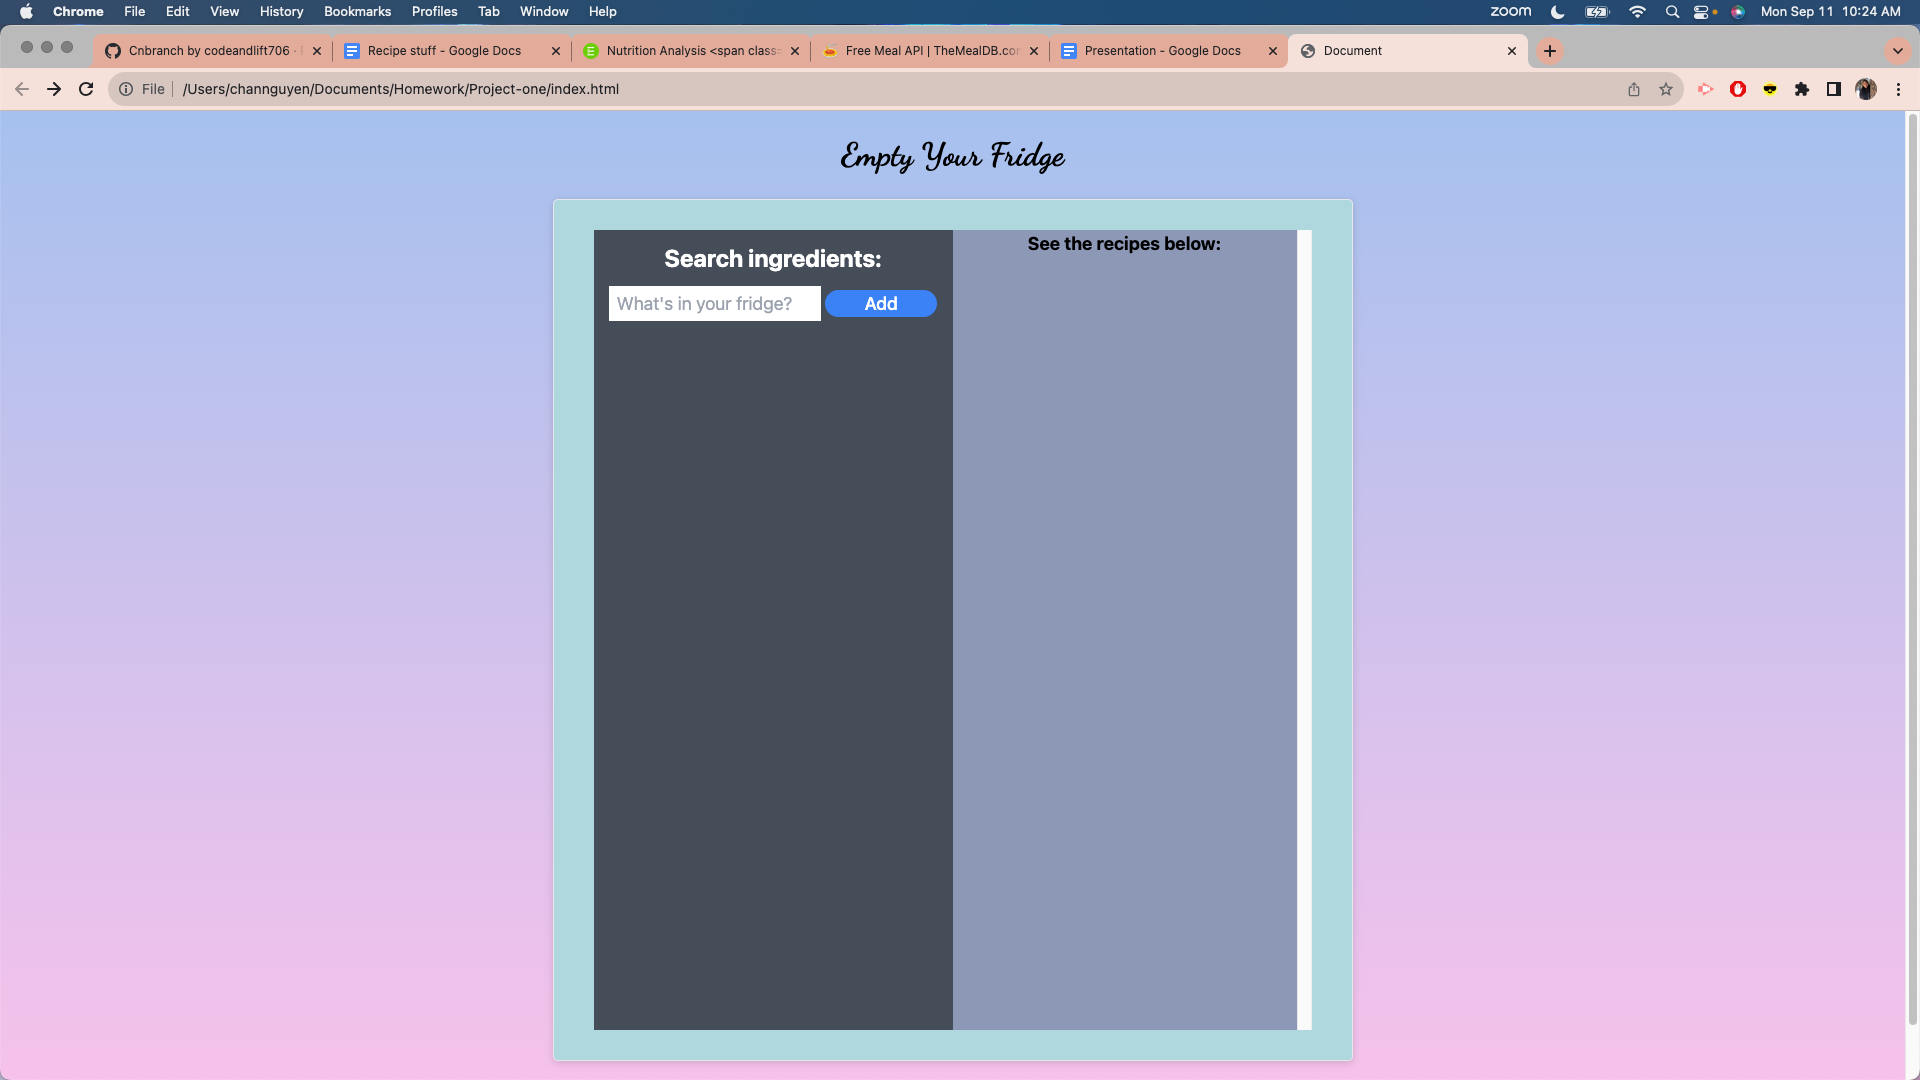
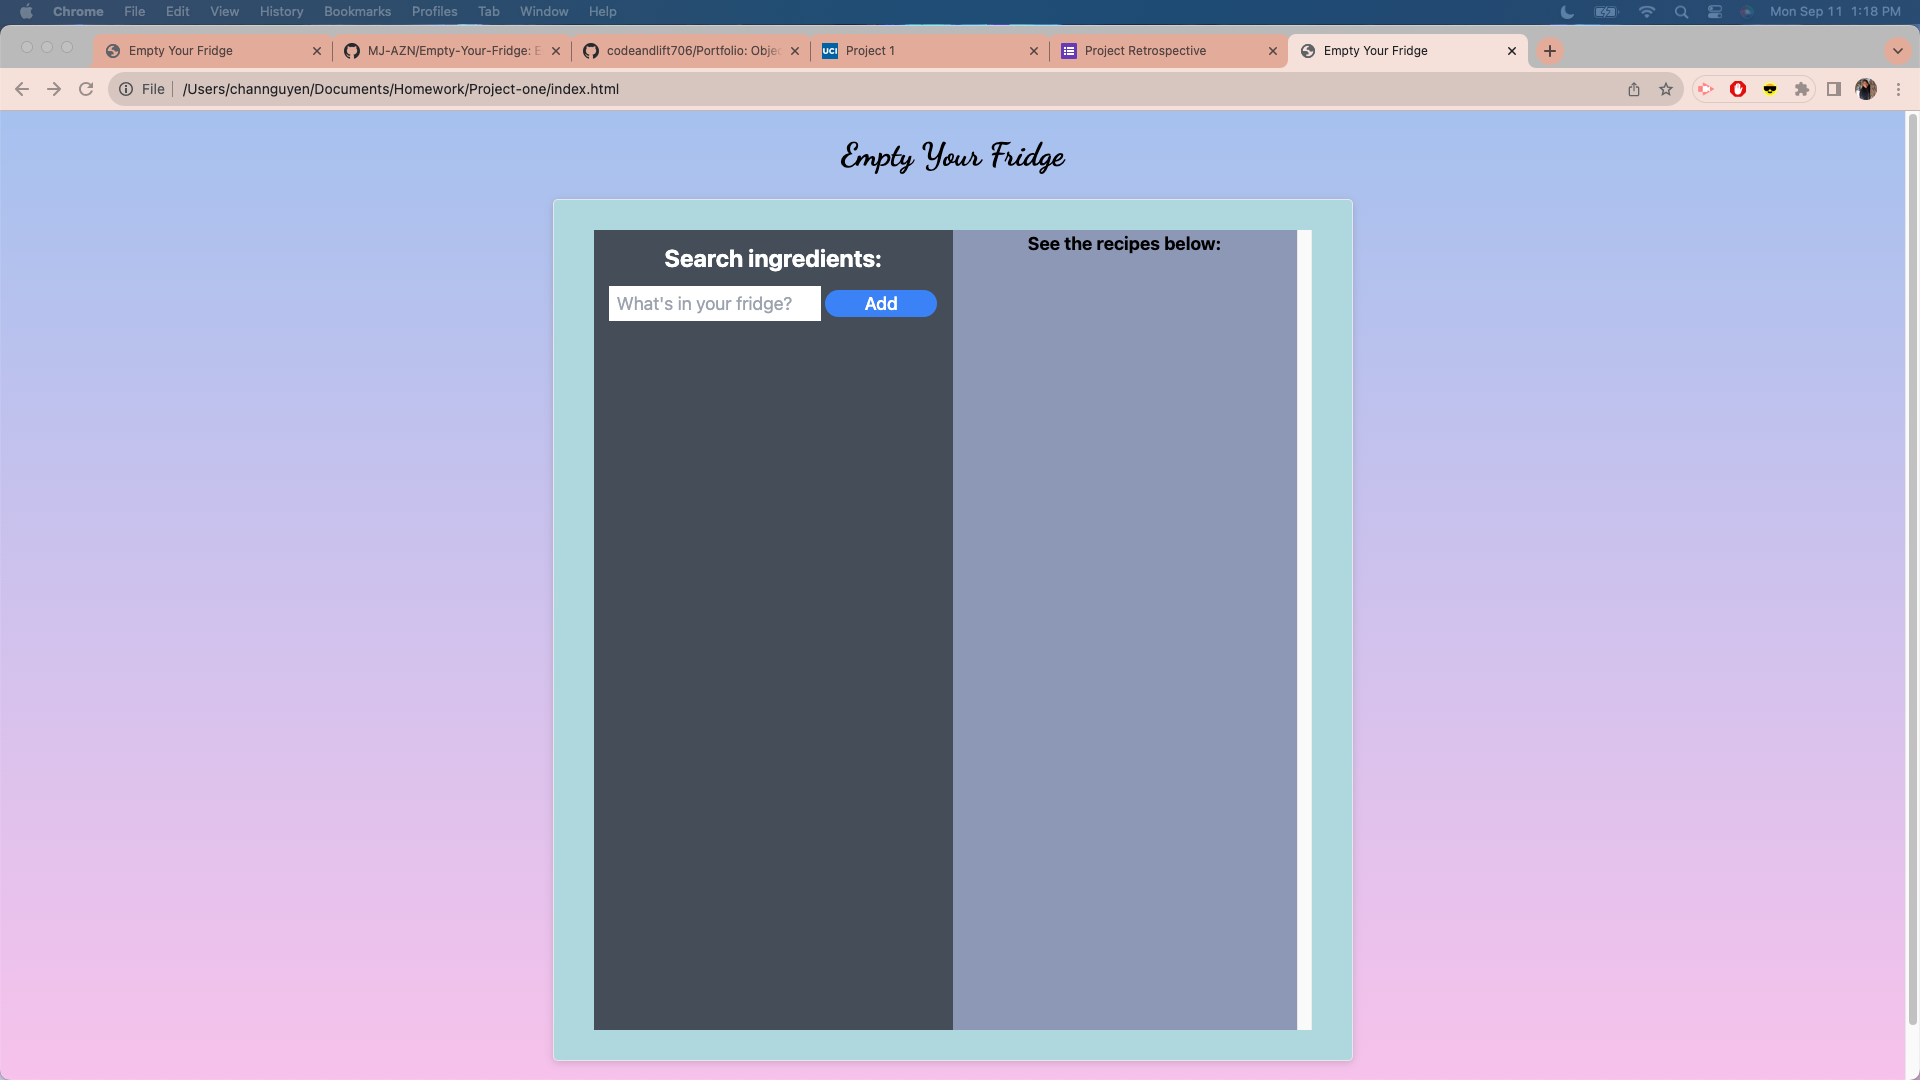
updated README and screenshot with new title

diff --git a/README.md b/README.md
@@ -3,7 +3,7 @@
 Empty Your Fridge was written by MJ, Chan Nguyen, Brian Lee, and Kyle Oros. It utilizes the MealDB API in regards to the recipes and their respective profiles, and the Edamam Nutritional Data API to calculate the nutritional data on the ingredients found in MealDB.  
 
 ## DESCRIPTION
-Empty Your Fridge is a web application that prompts the user to enter ingredients the wish to utilize in a recipe. Upon receiving the user's inputs, EYF will cross-compare their ingredient entries to a database, and return recipes to the user that match their parameters. Upon clicking any of these recipes, the user will be taken to a separate page containing the cooking instructions and nutritional data on the ingredients used. The deployed application can be found here: https://MJ-AZN.github.io/Project-one/. The GitHub link can be found here: https://github.com/MJ-AZN/Project-one.
+Empty Your Fridge is a web application that prompts the user to enter ingredients the wish to utilize in a recipe. Upon receiving the user's inputs, EYF will cross-compare their ingredient entries to a database, and return recipes to the user that match their parameters. Upon clicking any of these recipes, the user will be taken to a separate page containing the cooking instructions and nutritional data on the ingredients used. The deployed application can be found here: https://MJ-AZN.github.io/Empty-Your-Fridge/. The GitHub link can be found here: https://github.com/MJ-AZN/Empty-Your-Fridge.
 
 ## TECHNOLOGIES USED
 We used Figma & GoogleSlides to put together the wireframe, to put our ideas we brainstormed into a tangible blueprint. We used Tailwind as our CSS framework. We use Github for version control, collaboration, for working on pieces of code separately, to come altogether. We used VS Code for all of our code for HTML, CSS, JavaScript.
